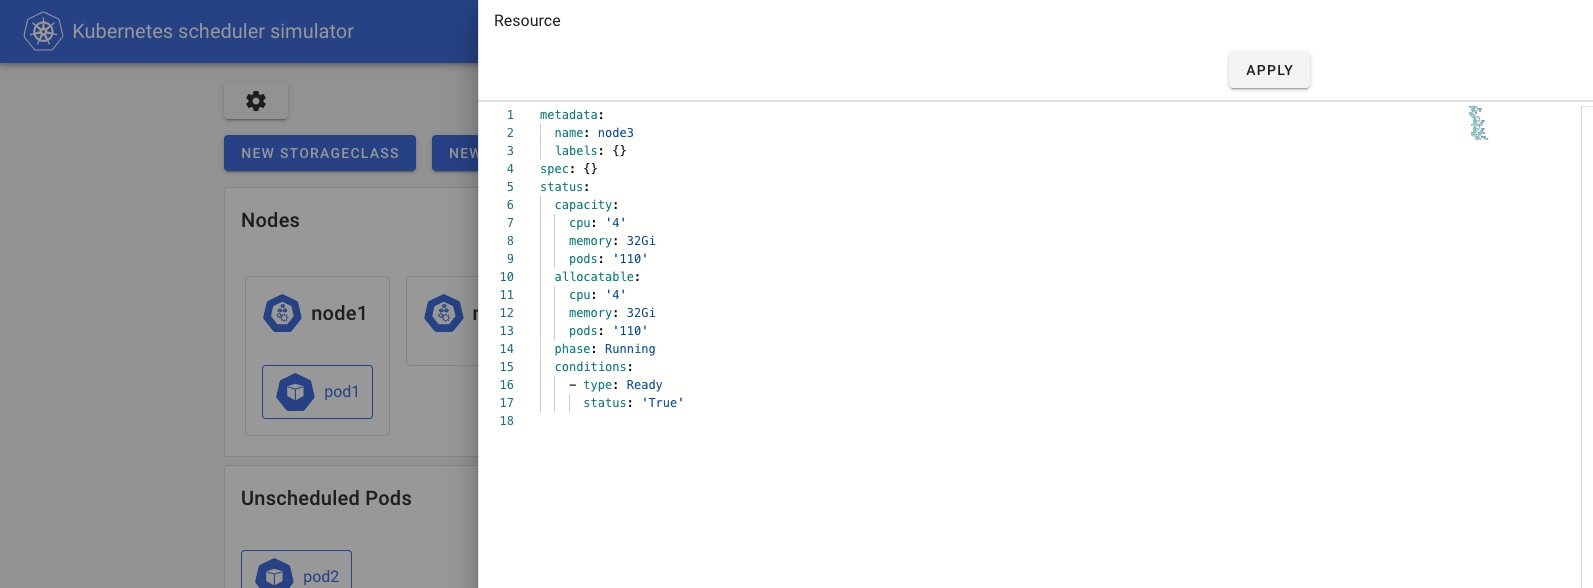
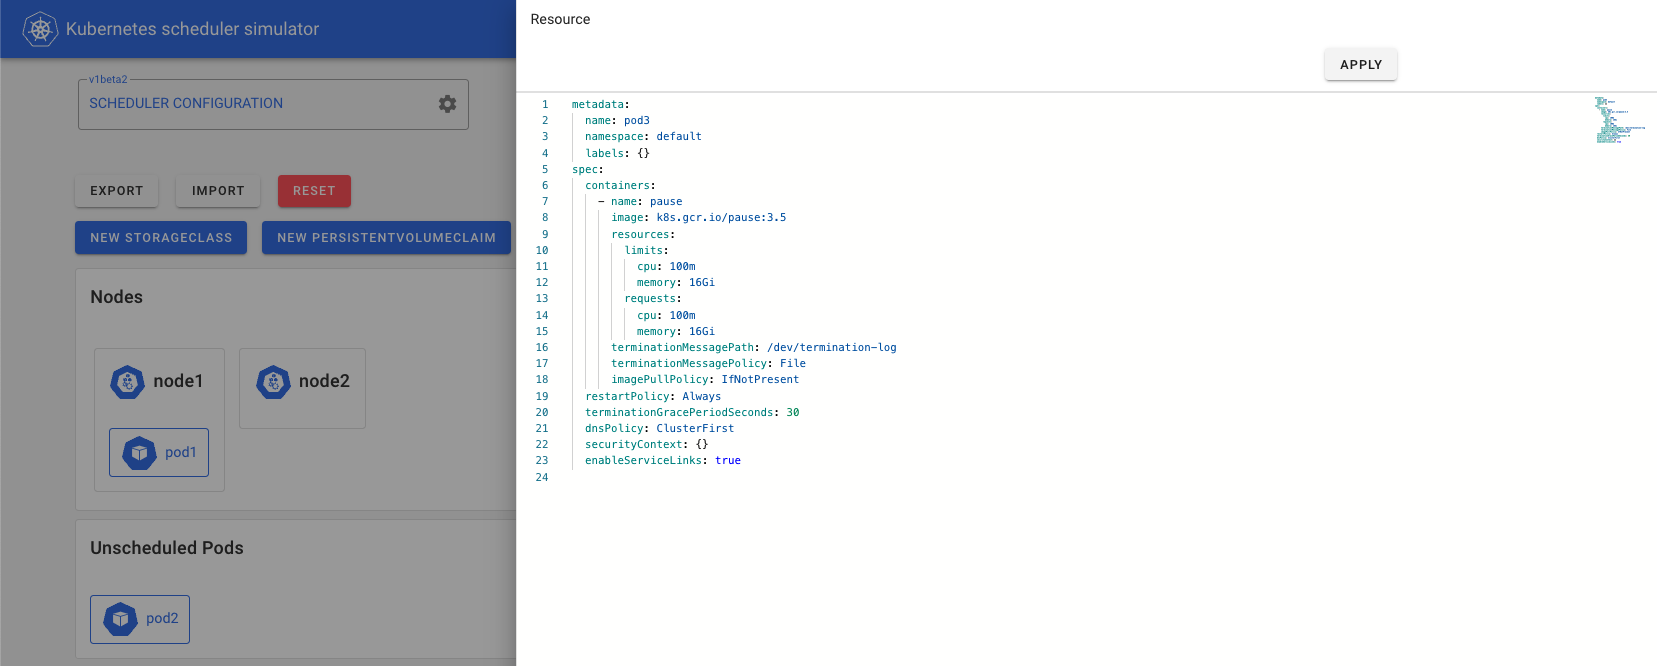
display the version of KubeSchedulerConfiguration in WebUI #110

diff --git a/web/components/TopBar/SchedulerConfigurationEditButton.vue b/web/components/TopBar/SchedulerConfigurationEditButton.vue
@@ -1,11 +1,27 @@
 <template>
-  <v-btn class="ma-2" @click="onClick()">
-    <v-icon> mdi-cog </v-icon>
-  </v-btn>
+  <v-form>
+    <v-container>
+      <v-row no-gutters>
+        <v-col cols="12" sm="6" md="4" lg="3">
+          <v-text-field
+            class="custom-input-color"
+            readonly
+            append-icon="mdi-cog"
+            outlined
+            :label="version"
+            value="SCHEDULER CONFIGURATION"
+            @click="onClick"
+            @click:append="onClick"
+          >
+          </v-text-field>
+        </v-col>
+      </v-row>
+    </v-container>
+  </v-form>
 </template>
 
 <script lang="ts">
-import { inject, defineComponent } from "@nuxtjs/composition-api";
+import { ref, inject, defineComponent } from "@nuxtjs/composition-api";
 import SchedulerConfigurationStoreKey from "../StoreKey/SchedulerConfigurationStoreKey";
 
 export default defineComponent({
@@ -14,13 +30,28 @@ export default defineComponent({
     if (!schedulerconfigurationstore) {
       throw new Error(`${SchedulerConfigurationStoreKey} is not provided`);
     }
+    let version = ref("");
+    schedulerconfigurationstore
+      .fetchVersion()
+      .then((v) => (version.value = v.data));
 
     const onClick = () => {
       schedulerconfigurationstore.fetchSelected();
     };
     return {
+      version,
       onClick,
     };
   },
 });
 </script>
+
+<style>
+.custom-input-color input,
+.v-label {
+  color: #326ce5 !important;
+}
+.v-input__icon--append .v-icon {
+  color: #326ce5;
+}
+</style>

diff --git a/web/store/schedulerconfiguration.ts b/web/store/schedulerconfiguration.ts
@@ -2,6 +2,7 @@ import { reactive } from "@nuxtjs/composition-api";
 import {
   applySchedulerConfiguration,
   getSchedulerConfiguration,
+  getSchedulerConfigVersion,
 } from "~/api/v1/schedulerconfiguration";
 import { SchedulerConfiguration } from "~/api/v1/types";
 
@@ -46,6 +47,10 @@ export default function schedulerconfigurationStore() {
           isDeletable: true,
         };
       }
+    },
+
+    fetchVersion() {
+      return getSchedulerConfigVersion();
     },
 
     async apply(cfg: SchedulerConfiguration, onError: (_: string) => void) {

diff --git a/web/api/v1/schedulerconfiguration.ts b/web/api/v1/schedulerconfiguration.ts
@@ -22,3 +22,8 @@ export const getSchedulerConfiguration = async () => {
   );
   return res.data;
 };
+
+export const getSchedulerConfigVersion = async () => {
+  const res = await instance.get<string>(`/schedulerconfigversion`);
+  return res;
+};

diff --git a/scheduler/scheduler.go b/scheduler/scheduler.go
@@ -123,6 +123,10 @@ func (s *Service) GetSchedulerConfig() *v1beta2config.KubeSchedulerConfiguration
 	return s.currentSchedulerCfg
 }
 
+func (s *Service) GetSchedulerConfigVersion() string {
+	return v1beta2config.SchemeGroupVersion.Version
+}
+
 // convertConfigurationForSimulator convert KubeSchedulerConfiguration to apply scheduler on simulator
 // (1) It excludes non-allowed changes. Now, we accept only changes to Profiles.Plugins field.
 // (2) It replaces filter/score default-plugins with plugins for simulator.

diff --git a/server/handler/schedulerconfig.go b/server/handler/schedulerconfig.go
@@ -21,6 +21,11 @@ func NewSchedulerConfigHandler(s di.SchedulerService) *SchedulerConfigHandler {
 	}
 }
 
+func (h *SchedulerConfigHandler) GetSchedulerConfigVersion(c echo.Context) error {
+	version := h.service.GetSchedulerConfigVersion()
+	return c.JSON(http.StatusOK, version)
+}
+
 func (h *SchedulerConfigHandler) GetSchedulerConfig(c echo.Context) error {
 	cfg := h.service.GetSchedulerConfig()
 	return c.JSON(http.StatusOK, cfg)

diff --git a/server/server.go b/server/server.go
@@ -46,6 +46,7 @@ func NewSimulatorServer(cfg *config.Config, dic *di.Container) *SimulatorServer 
 	// register apis
 	v1 := e.Group("/api/v1")
 
+	v1.GET("/schedulerconfigversion", schedulercfgHandler.GetSchedulerConfigVersion)
 	v1.GET("/schedulerconfiguration", schedulercfgHandler.GetSchedulerConfig)
 	v1.POST("/schedulerconfiguration", schedulercfgHandler.ApplySchedulerConfig)
 

diff --git a/server/di/interface.go b/server/di/interface.go
@@ -62,6 +62,7 @@ type StorageClassService interface {
 
 // SchedulerService represents service for manage scheduler.
 type SchedulerService interface {
+	GetSchedulerConfigVersion() string
 	GetSchedulerConfig() *v1beta2.KubeSchedulerConfiguration
 	RestartScheduler(cfg *v1beta2.KubeSchedulerConfiguration) error
 	StartScheduler(cfg *v1beta2.KubeSchedulerConfiguration) error

diff --git a/README.md b/README.md
@@ -23,7 +23,7 @@ And, after pods are scheduled, you can see the results of
 - Each Score plugins
 - Final score (normalized and applied Plugin Weight)
 
-![result](./docs/images/result.jpg)
+![result](./docs/images/result.png)
 
 You can configure the scheduler on the simulator through KubeSchedulerConfiguration.
 
@@ -33,7 +33,7 @@ You can pass a KubeSchedulerConfiguration file via the environment variable `KUB
 
 Note: changes to any fields other than `.profiles` are disabled on simulator, since they do not affect the results of the scheduling.
 
-![configure scheduler](./docs/images/schedulerconfiguration.jpg)
+![configure scheduler](./docs/images/schedulerconfiguration.png)
 
 ## Background
 
